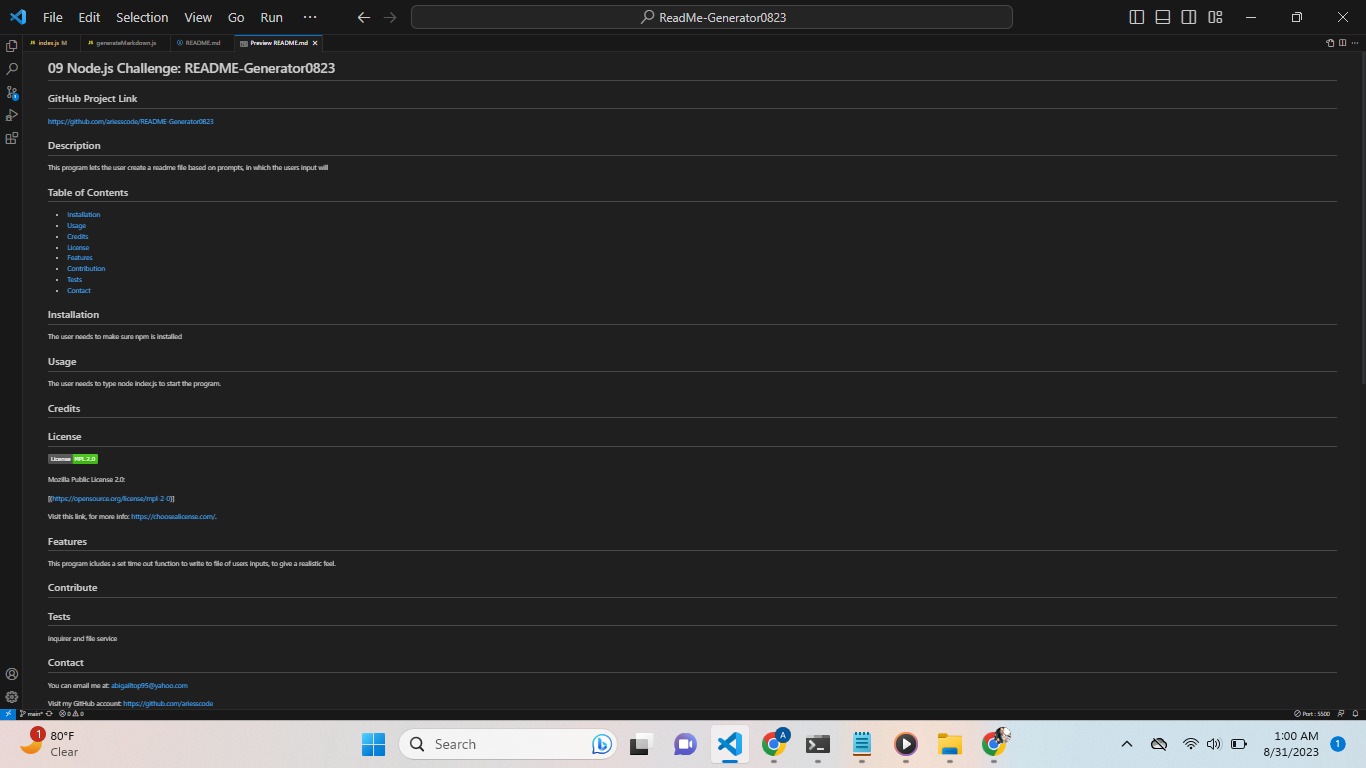
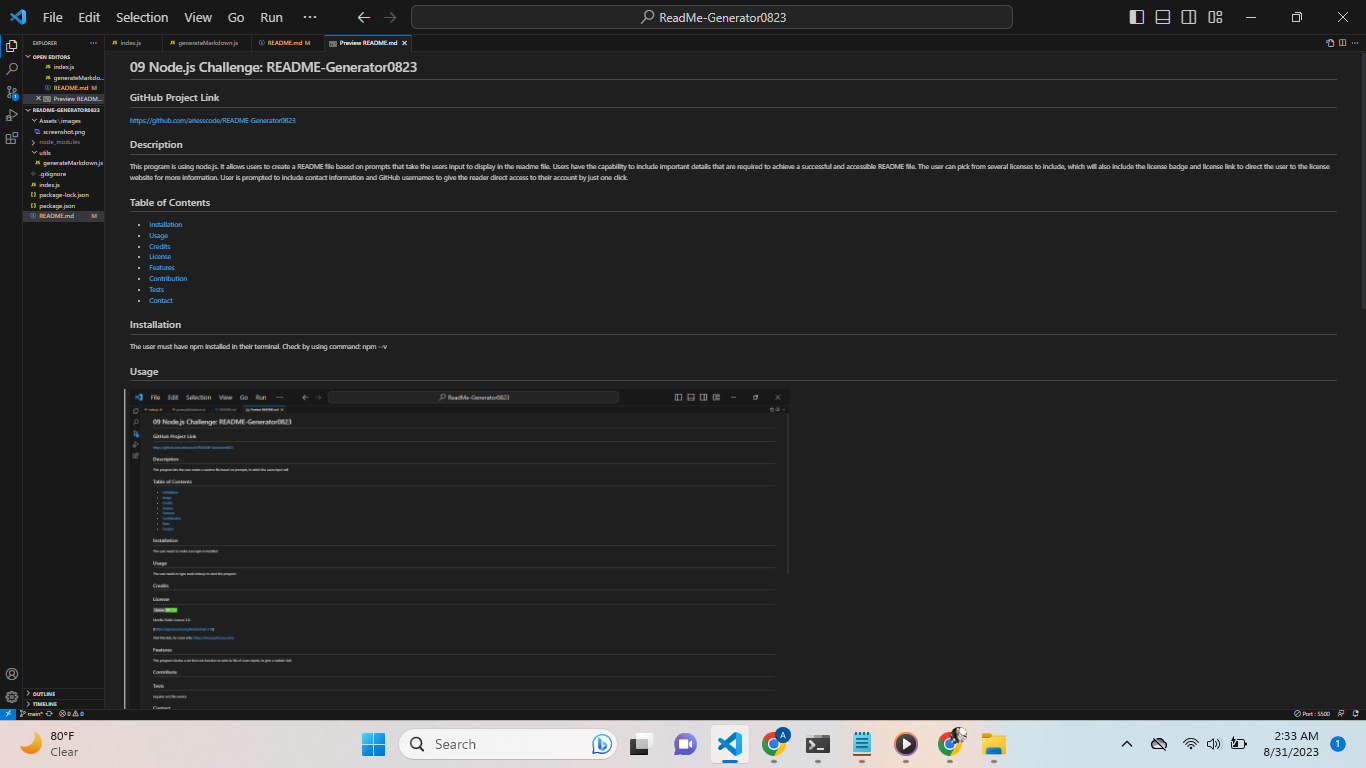
test

diff --git a/README.md b/README.md
@@ -1,10 +1,10 @@
-# 09 Node.js Challenge: fnknfn
+# 09 Node.js Challenge: README-Generator0823
 
 ## GitHub Project Link
-  https://github.com/ajffj/fnknfn
+  https://github.com/ariesscode/README-Generator0823
 
 ## Description
-ffko
+This program is using node.js. It allows users to create a README file based on prompts that take the users input to display in the readme file. Users have the capability to include important details that are required to achieve a successful and accessible README file. The user can pick from several licenses to include, which will also include the license badge and license link to direct the user to the license website for more information. User is prompted to include contact information and GitHub usernames to give the reader direct access to their account by just one click.
 
 
 
@@ -21,22 +21,22 @@ ffko
 
 
 ## Installation
-fkjf
+The user must have npm installed in their terminal. Check by using command: npm --v
 
 
 ## Usage
-![sample](assets/images/screenshot.png)
+![sample ReadMe](assets/images/screenshot.png) User will type node index.js into the command line to start the program. Then, user will follow prompted questions. Some questions require input in order to move on to the next prompt. This makes sure thhat the user is buidling a succcessful and accessible readme file. After user enters required fields, user must wait five seconds for a message that will display "success..Check it out!" The user will be able to see readme file inputs.
 
 
 ## Credits
-fkjfnkn
+
 
 ## License
-[![License: MIT](https://img.shields.io/badge/License-MIT-yellow.svg)](https://opensource.org/licenses/MIT)
-    
-  The MIT License: 
+[![License: MPL 2.0](https://img.shields.io/badge/License-MPL_2.0-brightgreen.svg)](https://opensource.org/licenses/MPL-2.0)
 
-  [(https://opensource.org/licenses/MIT)]
+  Mozilla Public License 2.0:
+
+  [(https://opensource.org/license/mpl-2-0)]
 
     
 
@@ -45,19 +45,19 @@ Visit this link, for more info: [https://choosealicense.com/](https://choosealic
 
 ## Features
 
-
+Set time out function to give a realistic feel for user. The write to file function is creating the readmefile, after 5 seconds, a message will display success!
 
 ## Contribute
 
 
 ## Tests
-
+Inquirer used for propmted questions to take user input and use the input to do many things with it. FS file service included to allow the movement of files or file GUI capabilities in he command line rogramally.
 
 ## Contact
 You can email me at:
-fknkff
+abigailtop95@yahoo.com
 
 Visit my GitHub account:
-https://github.com/ajffj
+https://github.com/ariesscode
 
 
